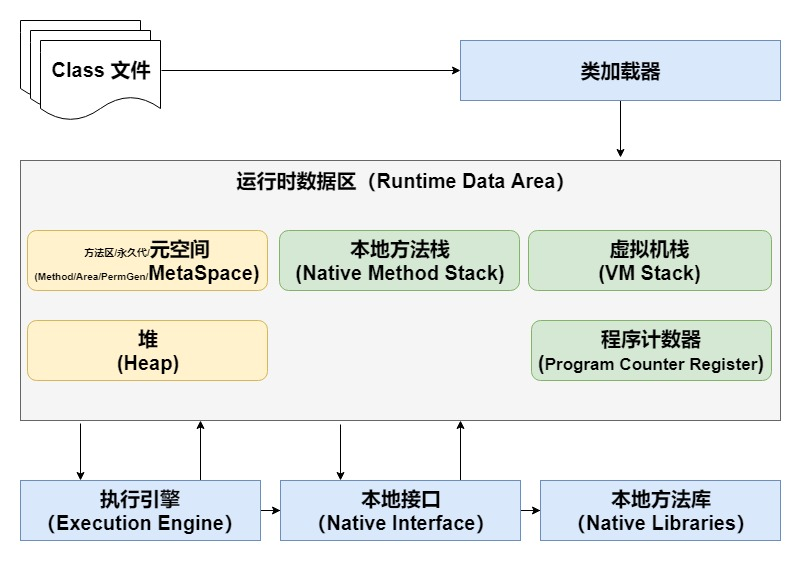
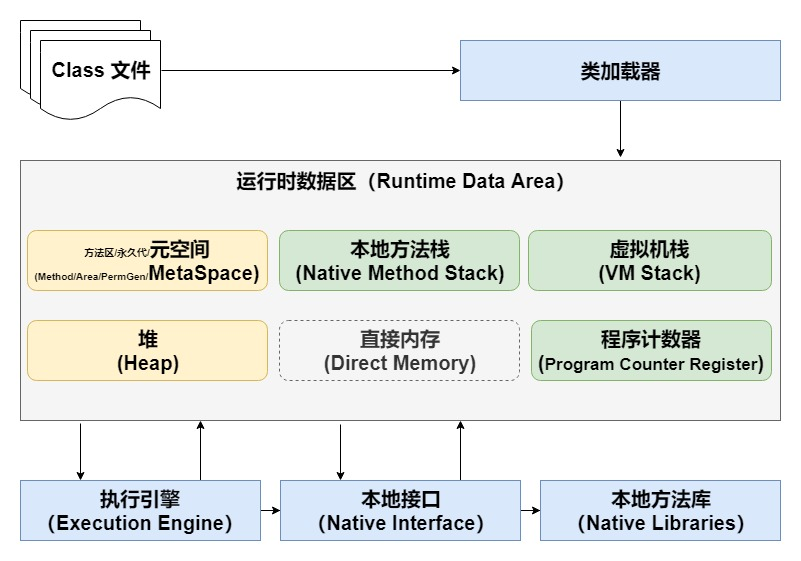
stash

Changed region(s): [[0.4057, 0.5758, 0.593, 0.6667]]

diff --git a/java/jvm/chapter1-02-02.md b/java/jvm/chapter1-02-02.md
@@ -1,1 +1,105 @@
 # 直接内存
+
+直接内存（Direct Memory）并不是虚拟机运行时数据区的一部分，也不是Java虚拟机规范中定义的内存区域，但是这部分内存也被频繁的使用，二期也可能导致OutOfMemoryError异常出现。
+
+在JDK1.4中新加入了NIO（New Input/Output）类，引入了一种基于通道（Channel）与缓冲区（Buffer)的I/O方式，他可以使用Native函数库直接分配对外内存，然后通过一个存储在Java堆中的DirectByteBuffer对象作为这块内存的引用进行操作。这样能在一些场景中显著的提高性能，因为避免了在Java堆中和Native堆中来回复制数据。
+
+显然，本机直接内存的分配不会收到Java堆大小的限制，但是，既然是内存，则肯定还是会受到本机总内存（包括RAM以及Swap区或者分页文件）的大小以及处理器寻址空间的限制。服务器管理员配置虚拟机参数时，一般会根据实际内存设置-Xmx等参数信息，单经常会忽略掉直接内存，使得各个内存区域的总和大于物理内存限制（包括物理上的和操作系统级的限制），从而导致动态扩展时出现OutOfMemoryError异常。
+
+可以通过 -XX:MaxDirectMemorySize 参数来设置最大可用直接内存，如果启动时未设置则[JDK8默认为64M](https://github.com/frohoff/jdk8u-dev-jdk/blob/master/src/share/classes/sun/misc/VM.java#L186)。也可以设置为-1表示和堆内存一样大。
+```java
+    // A user-settable upper limit on the maximum amount of allocatable direct
+    // buffer memory.  This value may be changed during VM initialization if
+    // "java" is launched with "-XX:MaxDirectMemorySize=<size>".
+    //
+    // The initial value of this field is arbitrary; during JRE initialization
+    // it will be reset to the value specified on the command line, if any,
+    // otherwise to Runtime.getRuntime().maxMemory().
+    //
+    private static long directMemory = 64 * 1024 * 1024;
+
+    // Set the maximum amount of direct memory.  This value is controlled
+    // by the vm option -XX:MaxDirectMemorySize=<size>.
+    // The maximum amount of allocatable direct buffer memory (in bytes)
+    // from the system property sun.nio.MaxDirectMemorySize set by the VM.
+    // The system property will be removed.
+    String s = (String)props.remove("sun.nio.MaxDirectMemorySize");
+    if (s != null) {
+        if (s.equals("-1")) {
+           // -XX:MaxDirectMemorySize not given, take default
+            directMemory = Runtime.getRuntime().maxMemory();
+        } else {
+           long l = Long.parseLong(s);
+            if (l > -1)
+                directMemory = l;
+        }
+    }
+```
+当直接内存达到最大限制时就会触发GC，如果回收失败则会引起OutOfMemoryError。
+
+
+环境为JDK9，两种内存分配的耗时如下，运行两遍让其预热。可以看到直接内存的分配比较耗时，而堆内存分配操作耗时少好几倍。
+
+```java
+public static void directMemoryAllocate() {
+		long tsStart = System.currentTimeMillis();
+		for (int i = 0; i < 100000; i++) {
+			ByteBuffer buffer = ByteBuffer.allocateDirect(400);
+
+		}
+		System.out.println("direct memory allocate: " + (System.currentTimeMillis() - tsStart) + " ms");
+		tsStart = System.currentTimeMillis();
+		for (int i = 0; i < 100000; i++) {
+			ByteBuffer buffer = ByteBuffer.allocate(400);
+		}
+		System.out.println("heap memory allocate： " + (System.currentTimeMillis() - tsStart) + " ms");
+	}
+
+```
+
+> direct memory allocate: 149 ms
+> heap memory allocate： 41 ms
+> direct memory allocate: 122 ms
+> heap memory allocate： 31 ms
+
+环境为JDK9，两种内存的读写操作耗时如下，同样运行两遍让其预热，可以看到直接内存读写操作的速度相对快一些。
+
+```java
+public static void memoryRW() {
+		ByteBuffer buffer = ByteBuffer.allocateDirect(400);
+		ByteBuffer buffer2 = ByteBuffer.allocate(400);
+		long tsStart = System.currentTimeMillis();
+		for (int i = 0; i < 100000; i++) {
+			for (int j = 0; j < 100; j++) {
+				buffer.putInt(j);
+			}
+			buffer.flip();
+			for (byte j = 0; j < 100; j++) {
+				buffer.getInt();
+			}
+			buffer.clear();
+		}
+		System.out.println("direct memory rw： " + (System.currentTimeMillis() - tsStart) + " ms");
+
+		tsStart = System.currentTimeMillis();
+		for (int i = 0; i < 100000; i++) {
+			for (int j = 0; j < 100; j++) {
+				buffer2.putInt(j);
+			}
+			buffer2.flip();
+			for (byte j = 0; j < 100; j++) {
+				buffer2.getInt();
+			}
+			buffer2.clear();
+		}
+		System.out.println("heap memory rw： " + (System.currentTimeMillis() - tsStart) + " ms");
+	}
+
+```
+> direct memory rw： 39 ms
+> heap memory rw： 34 ms
+> direct memory rw： 23 ms
+> heap memory rw： 46 ms
+
+理论上直接内存的机制访问速度要快一些，但也不能武断地直接说直接内存快，另外，在内存分配操作上直接内存要慢一些。直接内存更适合在内存申请次数较少，但读写操作较频繁的场景。
+

diff --git a/java/jvm/chapter1.md b/java/jvm/chapter1.md
@@ -16,6 +16,7 @@
 - JVM运行时区中虚拟机栈、本地方法栈、程序计数器为线程私有(绿色区域)，方法区和堆为线程共享区（黄色区域）。
 - 不同区域的占用内存大小不同，一般情况下堆最大，程序计数器较小。
 - 方法区逻辑上属于堆的一部分（如常量池就在堆中存放），但是为了与堆进行区分，通常又叫非堆。
+- 直接内存（Direct Memory）并不是虚拟机运行时数据区的一部分，也不是Java虚拟机规范中定义的内存区域。
 
 ### 1：[方法区](chapter1-02-00.md)
 [方法区/永久代/元空间的演进](chapter1-02-00-01.md)
